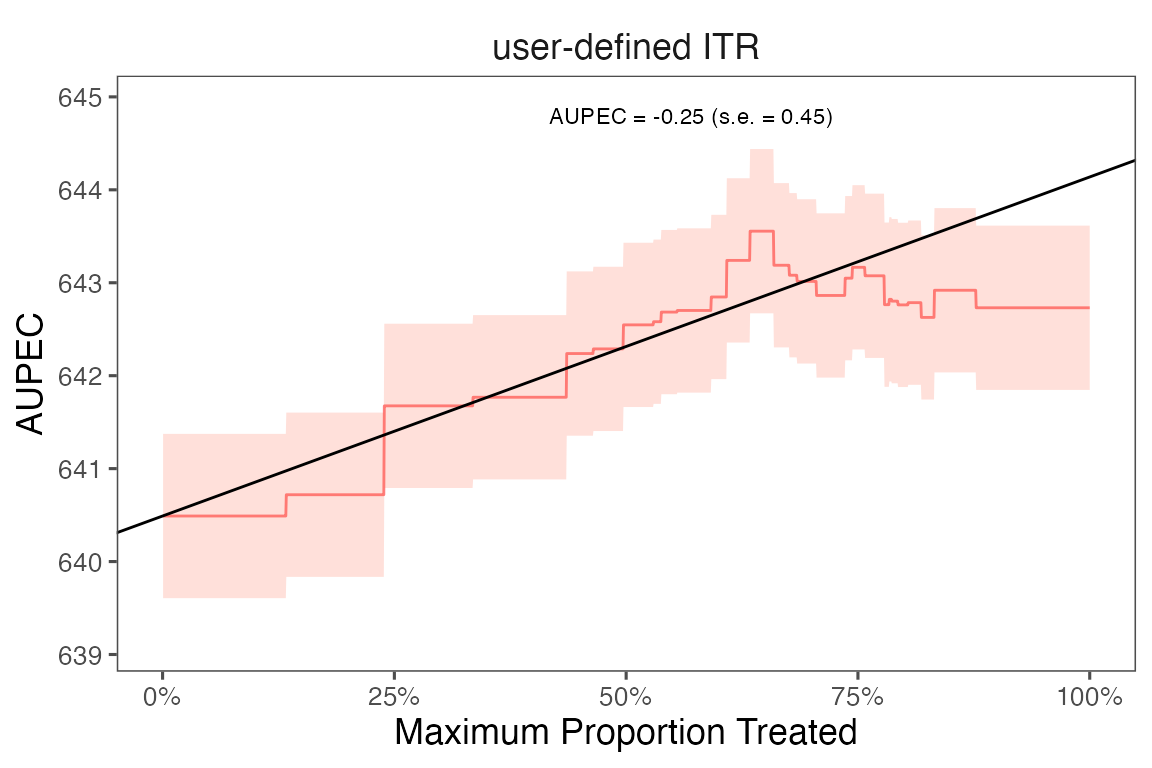
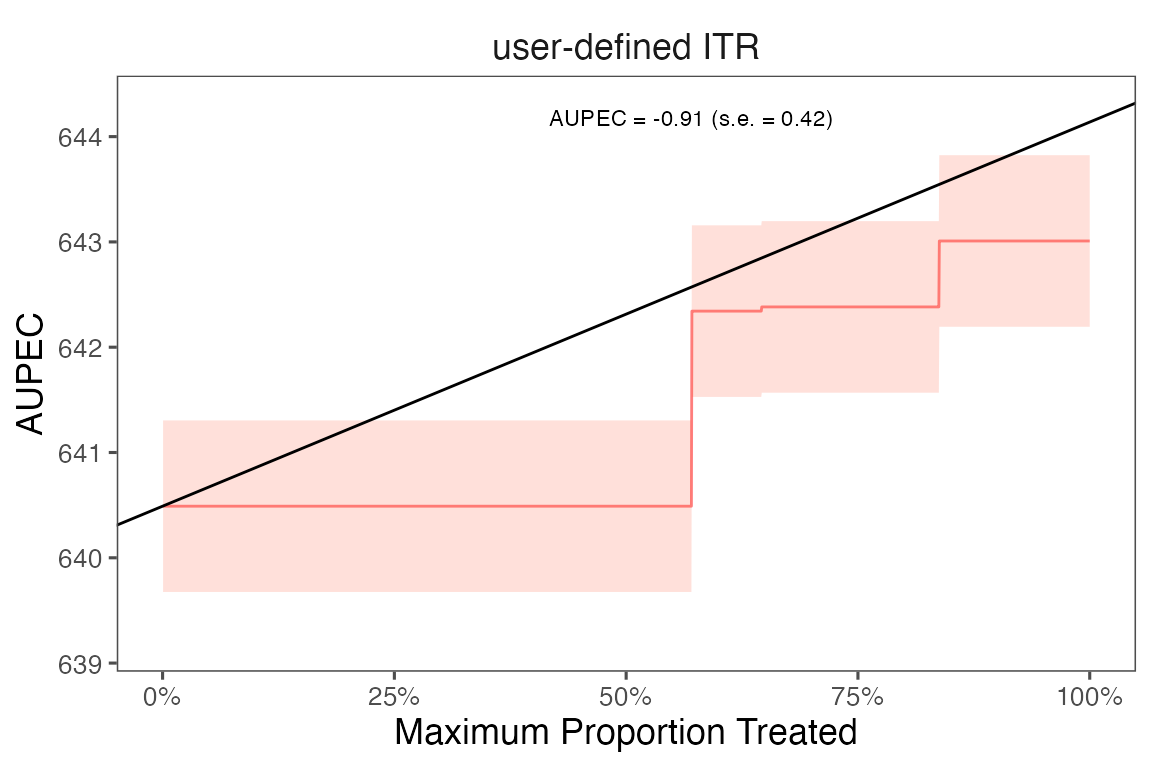
change scoring examples

diff --git a/docs/articles/user_itr_algs.html b/docs/articles/user_itr_algs.html
@@ -152,7 +152,15 @@ and AUPEC for the user defined ITR.</p>
 <span></span>
 <span><span class="co"># user's own ITR</span></span>
 <span><span class="va">score_function</span> <span class="op">&lt;-</span> <span class="kw">function</span><span class="op">(</span><span class="va">data</span><span class="op">)</span><span class="op">{</span></span>
-<span>  <span class="va">score</span> <span class="op">&lt;-</span> <span class="op">(</span><span class="va">data</span><span class="op">$</span><span class="va">GKWHITE</span><span class="op">)</span><span class="op">/</span><span class="fl">5</span></span>
+<span>  <span class="va">data</span> <span class="op"><a href="https://magrittr.tidyverse.org/reference/pipe.html" class="external-link">%&gt;%</a></span> </span>
+<span>    <span class="fu"><a href="https://dplyr.tidyverse.org/reference/mutate.html" class="external-link">mutate</a></span><span class="op">(</span>score <span class="op">=</span> <span class="fu"><a href="https://dplyr.tidyverse.org/reference/case_when.html" class="external-link">case_when</a></span><span class="op">(</span></span>
+<span>      <span class="va">SCHLURBN</span> <span class="op">==</span> <span class="fl">1</span> <span class="op">~</span> <span class="fl">0.1</span>, <span class="co"># inner-city</span></span>
+<span>      <span class="va">SCHLURBN</span> <span class="op">==</span> <span class="fl">2</span> <span class="op">~</span> <span class="fl">0.2</span>, <span class="co"># suburban</span></span>
+<span>      <span class="va">SCHLURBN</span> <span class="op">==</span> <span class="fl">3</span> <span class="op">~</span> <span class="fl">0.4</span>, <span class="co"># rural</span></span>
+<span>      <span class="va">SCHLURBN</span> <span class="op">==</span> <span class="fl">4</span> <span class="op">~</span> <span class="fl">0.3</span>, <span class="co"># urban</span></span>
+<span>    <span class="op">)</span><span class="op">)</span> <span class="op"><a href="https://magrittr.tidyverse.org/reference/pipe.html" class="external-link">%&gt;%</a></span></span>
+<span>    <span class="fu"><a href="https://dplyr.tidyverse.org/reference/pull.html" class="external-link">pull</a></span><span class="op">(</span><span class="va">score</span><span class="op">)</span> <span class="op">-&gt;</span> <span class="va">score</span></span>
+<span>    </span>
 <span>  <span class="kw"><a href="https://rdrr.io/r/base/function.html" class="external-link">return</a></span><span class="op">(</span><span class="va">score</span><span class="op">)</span></span>
 <span><span class="op">}</span></span>
 <span></span>
@@ -170,34 +178,34 @@ and AUPEC for the user defined ITR.</p>
 <span><span class="fu"><a href="https://rdrr.io/r/base/summary.html" class="external-link">summary</a></span><span class="op">(</span><span class="va">compare_itr</span><span class="op">)</span></span>
 <span><span class="co">#&gt; ── PAPE ────────────────────────────────────────────────────────────────────────</span></span>
 <span><span class="co">#&gt;   estimate std.deviation     algorithm statistic p.value</span></span>
-<span><span class="co">#&gt; 1      0.3           1.2 causal_forest      0.26     0.8</span></span>
-<span><span class="co">#&gt; 2      0.0           0.0      user_itr       NaN     NaN</span></span>
+<span><span class="co">#&gt; 1      1.4          0.86 causal_forest       1.6    0.11</span></span>
+<span><span class="co">#&gt; 2      0.0          0.00      user_itr       NaN     NaN</span></span>
 <span><span class="co">#&gt; </span></span>
 <span><span class="co">#&gt; ── PAPEp ───────────────────────────────────────────────────────────────────────</span></span>
 <span><span class="co">#&gt;   estimate std.deviation     algorithm statistic p.value</span></span>
-<span><span class="co">#&gt; 1    1.695          1.23 causal_forest     1.381    0.17</span></span>
-<span><span class="co">#&gt; 2    0.032          0.66      user_itr     0.049    0.96</span></span>
+<span><span class="co">#&gt; 1      2.2          1.13 causal_forest       1.9   0.052</span></span>
+<span><span class="co">#&gt; 2      1.1          0.67      user_itr       1.6   0.115</span></span>
 <span><span class="co">#&gt; </span></span>
 <span><span class="co">#&gt; ── PAPDp ───────────────────────────────────────────────────────────────────────</span></span>
 <span><span class="co">#&gt; Cannot compute PAPDp</span></span>
 <span><span class="co">#&gt; </span></span>
 <span><span class="co">#&gt; ── AUPEC ───────────────────────────────────────────────────────────────────────</span></span>
 <span><span class="co">#&gt;   estimate std.deviation     algorithm statistic p.value</span></span>
-<span><span class="co">#&gt; 1     0.98          0.95 causal_forest      1.04    0.30</span></span>
-<span><span class="co">#&gt; 2    -0.25          0.45          &lt;NA&gt;     -0.55    0.58</span></span>
+<span><span class="co">#&gt; 1     2.49          0.81 causal_forest       3.1  0.0021</span></span>
+<span><span class="co">#&gt; 2    -0.91          0.42          &lt;NA&gt;      -2.2  0.0282</span></span>
 <span><span class="co">#&gt; </span></span>
 <span><span class="co">#&gt; ── GATE ────────────────────────────────────────────────────────────────────────</span></span>
-<span><span class="co">#&gt;    estimate std.deviation     algorithm group statistic p.value  upper lower</span></span>
-<span><span class="co">#&gt; 1       9.4           109 causal_forest     1     0.087   0.931 -169.3   188</span></span>
-<span><span class="co">#&gt; 2     -77.9           107 causal_forest     2    -0.726   0.468 -254.5    99</span></span>
-<span><span class="co">#&gt; 3     165.6           109 causal_forest     3     1.522   0.128  -13.4   345</span></span>
-<span><span class="co">#&gt; 4      -2.4           109 causal_forest     4    -0.022   0.983 -181.6   177</span></span>
-<span><span class="co">#&gt; 5     -81.5           106 causal_forest     5    -0.767   0.443 -256.5    93</span></span>
-<span><span class="co">#&gt; 6      97.9            58      user_itr     1     1.681   0.093    2.1   194</span></span>
-<span><span class="co">#&gt; 7     -27.1            59      user_itr     2    -0.462   0.644 -123.5    69</span></span>
-<span><span class="co">#&gt; 8     -19.5            59      user_itr     3    -0.329   0.742 -117.2    78</span></span>
-<span><span class="co">#&gt; 9      96.6            60      user_itr     4     1.617   0.106   -1.6   195</span></span>
-<span><span class="co">#&gt; 10   -129.6            59      user_itr     5    -2.200   0.028 -226.6   -33</span></span></code></pre></div>
+<span><span class="co">#&gt;    estimate std.deviation     algorithm group statistic p.value   upper lower</span></span>
+<span><span class="co">#&gt; 1       -37           107 causal_forest     1     -0.35  0.7277 -214.15   139</span></span>
+<span><span class="co">#&gt; 2        13           108 causal_forest     2      0.12  0.9011 -163.52   190</span></span>
+<span><span class="co">#&gt; 3       131           109 causal_forest     3      1.21  0.2266  -47.33   310</span></span>
+<span><span class="co">#&gt; 4      -275           106 causal_forest     4     -2.59  0.0095 -449.08  -101</span></span>
+<span><span class="co">#&gt; 5       175           107 causal_forest     5      1.64  0.1012   -0.62   352</span></span>
+<span><span class="co">#&gt; 6       126            58      user_itr     1      2.16  0.0306   30.19   222</span></span>
+<span><span class="co">#&gt; 7        96            59      user_itr     2      1.62  0.1049   -1.39   194</span></span>
+<span><span class="co">#&gt; 8       -33            59      user_itr     3     -0.56  0.5786 -129.66    64</span></span>
+<span><span class="co">#&gt; 9      -139            59      user_itr     4     -2.36  0.0181 -236.47   -42</span></span>
+<span><span class="co">#&gt; 10      -32            59      user_itr     5     -0.54  0.5888 -129.37    65</span></span></code></pre></div>
 <p>We plot the estimated Area Under the Prescriptive Effect Curve
 (AUPEC) for the writing score across a range of budget constraints for
 user defined ITR and estimated ITRs. The plot shows that the estimated
@@ -263,7 +271,8 @@ model</td>
 </tbody>
 </table>
 <div class="sourceCode" id="cb3"><pre class="downlit sourceCode r">
-<code class="sourceCode R"><span><span class="co"># user's own model</span></span>
+<code class="sourceCode R"><span></span>
+<span><span class="co"># user's own model</span></span>
 <span><span class="va">user_model</span> <span class="op">&lt;-</span> <span class="kw">function</span><span class="op">(</span><span class="va">data</span><span class="op">)</span><span class="op">{</span></span>
 <span>  <span class="va">model</span> <span class="op">&lt;-</span> <span class="fu"><a href="https://rdrr.io/r/stats/lm.html" class="external-link">lm</a></span><span class="op">(</span><span class="va">Y</span> <span class="op">~</span> <span class="cn">T</span><span class="op">*</span><span class="op">(</span><span class="va">GKWHITE</span> <span class="op">+</span> <span class="va">GKBUSED</span> <span class="op">+</span> <span class="va">GKFRLNCH</span><span class="op">)</span>, data <span class="op">=</span> <span class="va">data</span><span class="op">)</span></span>
 <span>  <span class="kw"><a href="https://rdrr.io/r/base/function.html" class="external-link">return</a></span><span class="op">(</span><span class="va">model</span><span class="op">)</span></span>
@@ -288,35 +297,35 @@ model</td>
 <span><span class="fu"><a href="https://rdrr.io/r/base/summary.html" class="external-link">summary</a></span><span class="op">(</span><span class="va">compare_est</span><span class="op">)</span></span>
 <span><span class="co">#&gt; ── PAPE ────────────────────────────────────────────────────────────────────────</span></span>
 <span><span class="co">#&gt;   estimate std.deviation     algorithm statistic p.value</span></span>
-<span><span class="co">#&gt; 1  2.5e-01       1.4e+00 causal_forest   1.9e-01    0.85</span></span>
-<span><span class="co">#&gt; 2  4.4e-16       3.1e-09    user_model   1.5e-07    1.00</span></span>
+<span><span class="co">#&gt; 1    -0.74           1.2 causal_forest     -0.61    0.54</span></span>
+<span><span class="co">#&gt; 2     0.00           0.0    user_model       NaN     NaN</span></span>
 <span><span class="co">#&gt; </span></span>
 <span><span class="co">#&gt; ── PAPEp ───────────────────────────────────────────────────────────────────────</span></span>
 <span><span class="co">#&gt;   estimate std.deviation     algorithm statistic p.value</span></span>
-<span><span class="co">#&gt; 1      3.6           1.3 causal_forest      2.85  0.0044</span></span>
-<span><span class="co">#&gt; 2      1.2           1.2    user_model      0.98  0.3271</span></span>
+<span><span class="co">#&gt; 1     2.39           1.1 causal_forest     2.142   0.032</span></span>
+<span><span class="co">#&gt; 2     0.11           1.2    user_model     0.088   0.930</span></span>
 <span><span class="co">#&gt; </span></span>
 <span><span class="co">#&gt; ── PAPDp ───────────────────────────────────────────────────────────────────────</span></span>
 <span><span class="co">#&gt;   estimate std.deviation                  algorithm statistic p.value</span></span>
-<span><span class="co">#&gt; 1      2.5           1.9 causal_forest x user_model       1.3    0.18</span></span>
+<span><span class="co">#&gt; 1      2.3           1.7 causal_forest x user_model       1.4    0.17</span></span>
 <span><span class="co">#&gt; </span></span>
 <span><span class="co">#&gt; ── AUPEC ───────────────────────────────────────────────────────────────────────</span></span>
 <span><span class="co">#&gt;   estimate std.deviation     algorithm statistic p.value</span></span>
-<span><span class="co">#&gt; 1     1.62          1.08 causal_forest      1.49    0.14</span></span>
-<span><span class="co">#&gt; 2    -0.91          0.92    user_model     -0.99    0.32</span></span>
+<span><span class="co">#&gt; 1     1.13          0.94 causal_forest      1.21    0.23</span></span>
+<span><span class="co">#&gt; 2     0.32          0.84    user_model      0.38    0.70</span></span>
 <span><span class="co">#&gt; </span></span>
 <span><span class="co">#&gt; ── GATE ────────────────────────────────────────────────────────────────────────</span></span>
-<span><span class="co">#&gt;    estimate std.deviation     algorithm group statistic p.value  upper lower</span></span>
-<span><span class="co">#&gt; 1     171.5           108 causal_forest     1     1.585 1.1e-01   -6.4   350</span></span>
-<span><span class="co">#&gt; 2      -2.5           109 causal_forest     2    -0.023 9.8e-01 -181.7   177</span></span>
-<span><span class="co">#&gt; 3     -64.7           108 causal_forest     3    -0.601 5.5e-01 -241.7   112</span></span>
-<span><span class="co">#&gt; 4      -1.3           108 causal_forest     4    -0.012 9.9e-01 -178.2   176</span></span>
-<span><span class="co">#&gt; 5     -73.1           107 causal_forest     5    -0.684 4.9e-01 -249.0   103</span></span>
-<span><span class="co">#&gt; 6    -134.0           106    user_model     1    -1.262 2.1e-01 -308.7    41</span></span>
-<span><span class="co">#&gt; 7    -198.8           106    user_model     2    -1.871 6.1e-02 -373.5   -24</span></span>
-<span><span class="co">#&gt; 8    -130.6           107    user_model     3    -1.224 2.2e-01 -306.2    45</span></span>
-<span><span class="co">#&gt; 9     -29.4           109    user_model     4    -0.270 7.9e-01 -208.8   150</span></span>
-<span><span class="co">#&gt; 10    522.8           108    user_model     5     4.819 1.4e-06  344.4   701</span></span>
+<span><span class="co">#&gt;    estimate std.deviation     algorithm group statistic p.value upper lower</span></span>
+<span><span class="co">#&gt; 1      34.3           109 causal_forest     1     0.315 0.75254  -145   213</span></span>
+<span><span class="co">#&gt; 2     -13.8           108 causal_forest     2    -0.128 0.89831  -191   164</span></span>
+<span><span class="co">#&gt; 3     -85.0           108 causal_forest     3    -0.786 0.43198  -263    93</span></span>
+<span><span class="co">#&gt; 4       7.9           108 causal_forest     4     0.073 0.94192  -170   186</span></span>
+<span><span class="co">#&gt; 5      81.4           108 causal_forest     5     0.753 0.45145   -96   259</span></span>
+<span><span class="co">#&gt; 6    -209.2           104    user_model     1    -2.006 0.04483  -381   -38</span></span>
+<span><span class="co">#&gt; 7    -147.2           107    user_model     2    -1.376 0.16870  -323    29</span></span>
+<span><span class="co">#&gt; 8     -55.9           108    user_model     3    -0.516 0.60617  -234   123</span></span>
+<span><span class="co">#&gt; 9      25.0           109    user_model     4     0.230 0.81787  -153   203</span></span>
+<span><span class="co">#&gt; 10    412.1           111    user_model     5     3.706 0.00021   229   595</span></span>
 <span><span class="fu"><a href="https://rdrr.io/r/graphics/plot.default.html" class="external-link">plot</a></span><span class="op">(</span><span class="va">compare_est</span><span class="op">)</span></span></code></pre></div>
 <p><img src="../reference/figures/README-compare_itr_model_summary-1.png" width="700"></p>
 </div>

diff --git a/docs/articles/cv_single_alg.html b/docs/articles/cv_single_alg.html
@@ -87,69 +87,15 @@
     
     
 <p>When users choose to estimate and evaluate ITR under
-cross-validation, the package implements Algorithm 1 from <a href="https://arxiv.org/abs/1905.05389" class="external-link">Imai and Li (2023)</a></p>
+cross-validation, the package implements Algorithm 1 from <a href="https://arxiv.org/abs/1905.05389" class="external-link">Imai and Li (2023)</a> to
+estimate and evaluate ITR. Instead of specifying the
+<code>split_ratio</code> argument, we choose the number of folds
+(<code>n_folds</code>). We present an example of estimating ITR with 3
+folds cross-validation. In practice, we recommend using 10 folds to get
+a more stable model performance.</p>
 <p><strong>Algorithm 1 Estimating and Evaluating an Individualized
 Treatment Rule (ITR) using the Same Experimental Data via
 Cross-Validation</strong></p>
-<table class="table">
-<colgroup>
-<col width="22%">
-<col width="21%">
-<col width="56%">
-</colgroup>
-<thead><tr class="header">
-<th align="left">Input</th>
-<th align="left">R package input</th>
-<th align="left">Descriptions</th>
-</tr></thead>
-<tbody>
-<tr class="odd">
-<td align="left">Data <span class="math inline">\(\mathbf{Z}=\left\{\mathbf{X}_i, T_i,
-Y_i\right\}_{i=1}^n\)</span>
-</td>
-<td align="left"><code>treatment = treatment, form = user_formula, data = star_data</code></td>
-<td align="left">
-<code>treatment</code> is a character string specifying
-the treatment variable in the <code>data</code>; <code>form</code> is a
-formula specifying the outcome and covariates; and a dataframe
-<code>data</code>
-</td>
-</tr>
-<tr class="even">
-<td align="left">Machine learning algorithm <span class="math inline">\(F\)</span>
-</td>
-<td align="left"><code>algorithms = c("causal_forest")</code></td>
-<td align="left">a character vector specifying the ML algorithms to be
-used</td>
-</tr>
-<tr class="odd">
-<td align="left">Evaluation metric <span class="math inline">\(\tau_f\)</span>
-</td>
-<td align="left">PAPE, PAPD, AUPEC, GATE</td>
-<td align="left">By default</td>
-</tr>
-<tr class="even">
-<td align="left">Number of folds <span class="math inline">\(K\)</span>
-</td>
-<td align="left"><code>n_folds = 3</code></td>
-<td align="left">
-<code>n_folds</code> is a numeric value indicating the
-number of folds used for cross-validation</td>
-</tr>
-<tr class="odd">
-<td align="left">…</td>
-<td align="left"><code>budget = 0.2</code></td>
-<td align="left">
-<code>budget</code> is a numeric value specifying the
-maximum percentage of population that can be treated under the budget
-constraint</td>
-</tr>
-</tbody>
-</table>
-<p>The output will be an object that includes estimated evaluation
-metric <span class="math inline">\(\hat{\tau}_F\)</span> and the
-estimated variance of <span class="math inline">\(\hat{\tau}_F\)</span>
-for different metrics (PAPE, PAPD, AUPEC).</p>
 <table style="width:100%;" class="table">
 <colgroup>
 <col width="57%">
@@ -181,7 +127,7 @@ for different metrics (PAPE, PAPD, AUPEC).</p>
 <tr class="odd">
 <td align="left">3. while <span class="math inline">\(k \leq K\)</span>
 do</td>
-<td align="left">for loop in <code>fit_itr()</code> within
+<td align="left">for loop in <code><a href="../reference/fit_itr.html">fit_itr()</a></code> within
 <code><a href="../reference/estimate_itr.html">estimate_itr()</a></code>
 </td>
 <td align="left"></td>
@@ -242,11 +188,61 @@ k+1\)</span>
 </tr>
 </tbody>
 </table>
-<p>The package allows estimate ITR with k-folds cross-validation.
-Instead of specifying the <code>split_ratio</code> argument, we choose
-the number of folds (<code>n_folds</code>). The following code presents
-an example of estimating ITR with 3 folds cross-validation. In practice,
-we recommend using 10 folds to get a more stable model performance.</p>
+<table class="table">
+<colgroup>
+<col width="22%">
+<col width="21%">
+<col width="56%">
+</colgroup>
+<thead><tr class="header">
+<th align="left">Input</th>
+<th align="left">R package input</th>
+<th align="left">Descriptions</th>
+</tr></thead>
+<tbody>
+<tr class="odd">
+<td align="left">Data <span class="math inline">\(\mathbf{Z}=\left\{\mathbf{X}_i, T_i,
+Y_i\right\}_{i=1}^n\)</span>
+</td>
+<td align="left"><code>treatment = treatment, form = user_formula, data = star_data</code></td>
+<td align="left">
+<code>treatment</code> is a character string specifying
+the treatment variable in the <code>data</code>; <code>form</code> is a
+formula specifying the outcome and covariates; and a dataframe
+<code>data</code>
+</td>
+</tr>
+<tr class="even">
+<td align="left">Machine learning algorithm <span class="math inline">\(F\)</span>
+</td>
+<td align="left"><code>algorithms = c("causal_forest")</code></td>
+<td align="left">a character vector specifying the ML algorithms to be
+used</td>
+</tr>
+<tr class="odd">
+<td align="left">Evaluation metric <span class="math inline">\(\tau_f\)</span>
+</td>
+<td align="left">PAPE, PAPD, AUPEC, GATE</td>
+<td align="left">By default</td>
+</tr>
+<tr class="even">
+<td align="left">Number of folds <span class="math inline">\(K\)</span>
+</td>
+<td align="left"><code>n_folds = 3</code></td>
+<td align="left">
+<code>n_folds</code> is a numeric value indicating the
+number of folds used for cross-validation</td>
+</tr>
+<tr class="odd">
+<td align="left">…</td>
+<td align="left"><code>budget = 0.2</code></td>
+<td align="left">
+<code>budget</code> is a numeric value specifying the
+maximum percentage of population that can be treated under the budget
+constraint</td>
+</tr>
+</tbody>
+</table>
 <div class="sourceCode" id="cb1"><pre class="downlit sourceCode r">
 <code class="sourceCode R"><span><span class="kw"><a href="https://rdrr.io/r/base/library.html" class="external-link">library</a></span><span class="op">(</span><span class="va"><a href="https://github.com/MichaelLLi/evalITR" class="external-link">evalITR</a></span><span class="op">)</span></span>
 <span><span class="co"># estimate ITR </span></span>
@@ -258,9 +254,13 @@ we recommend using 10 folds to get a more stable model performance.</p>
 <span>               algorithms <span class="op">=</span> <span class="fu"><a href="https://rdrr.io/r/base/c.html" class="external-link">c</a></span><span class="op">(</span><span class="st">"causal_forest"</span><span class="op">)</span>,</span>
 <span>               budget <span class="op">=</span> <span class="fl">0.2</span>,</span>
 <span>               n_folds <span class="op">=</span> <span class="fl">3</span><span class="op">)</span></span>
-<span><span class="co">#&gt; Evaluate ITR with cross-validation ...</span></span>
-<span></span>
-<span><span class="co"># evaluate ITR </span></span>
+<span><span class="co">#&gt; Evaluate ITR with cross-validation ...</span></span></code></pre></div>
+<p>The output will be an object that includes estimated evaluation
+metric <span class="math inline">\(\hat{\tau}_F\)</span> and the
+estimated variance of <span class="math inline">\(\hat{\tau}_F\)</span>
+for different metrics (PAPE, PAPD, AUPEC).</p>
+<div class="sourceCode" id="cb2"><pre class="downlit sourceCode r">
+<code class="sourceCode R"><span><span class="co"># evaluate ITR </span></span>
 <span><span class="va">est_cv</span> <span class="op">&lt;-</span> <span class="fu"><a href="../reference/evaluate_itr.html">evaluate_itr</a></span><span class="op">(</span><span class="va">fit_cv</span><span class="op">)</span></span>
 <span><span class="co">#&gt; Cannot compute PAPDp</span></span>
 <span></span>
@@ -287,11 +287,7 @@ we recommend using 10 folds to get a more stable model performance.</p>
 <span><span class="co">#&gt; 2       40            59 causal_forest     2      0.68    0.50   157   -76</span></span>
 <span><span class="co">#&gt; 3       29            59 causal_forest     3      0.50    0.62   145   -86</span></span>
 <span><span class="co">#&gt; 4       13            59 causal_forest     4      0.22    0.82   129  -103</span></span>
-<span><span class="co">#&gt; 5       21           102 causal_forest     5      0.20    0.84   220  -179</span></span>
-<span></span>
-<span><span class="co"># plot the AUPEC </span></span>
-<span><span class="fu"><a href="https://rdrr.io/r/graphics/plot.default.html" class="external-link">plot</a></span><span class="op">(</span><span class="va">est_cv</span><span class="op">)</span></span></code></pre></div>
-<p><img src="../reference/figures/README-cv_estimate-1.png" width="60%"></p>
+<span><span class="co">#&gt; 5       21           102 causal_forest     5      0.20    0.84   220  -179</span></span></code></pre></div>
   </main>
 </div>
 

diff --git a/docs/articles/user_itr.html b/docs/articles/user_itr.html
@@ -134,7 +134,16 @@ and AUPEC for the user defined ITR.</p>
 <div class="sourceCode" id="cb1"><pre class="downlit sourceCode r">
 <code class="sourceCode R"><span><span class="co"># user's own ITR</span></span>
 <span><span class="va">score_function</span> <span class="op">&lt;-</span> <span class="kw">function</span><span class="op">(</span><span class="va">data</span><span class="op">)</span><span class="op">{</span></span>
-<span>  <span class="va">score</span> <span class="op">&lt;-</span> <span class="op">(</span><span class="va">data</span><span class="op">$</span><span class="va">GKWHITE</span><span class="op">)</span><span class="op">/</span><span class="fl">5</span></span>
+<span></span>
+<span>  <span class="va">data</span> <span class="op"><a href="https://magrittr.tidyverse.org/reference/pipe.html" class="external-link">%&gt;%</a></span> </span>
+<span>    <span class="fu"><a href="https://dplyr.tidyverse.org/reference/mutate.html" class="external-link">mutate</a></span><span class="op">(</span>score <span class="op">=</span> <span class="fu"><a href="https://dplyr.tidyverse.org/reference/case_when.html" class="external-link">case_when</a></span><span class="op">(</span></span>
+<span>      <span class="va">SCHLURBN</span> <span class="op">==</span> <span class="fl">1</span> <span class="op">~</span> <span class="fl">0.1</span>, <span class="co"># inner-city</span></span>
+<span>      <span class="va">SCHLURBN</span> <span class="op">==</span> <span class="fl">2</span> <span class="op">~</span> <span class="fl">0.2</span>, <span class="co"># suburban</span></span>
+<span>      <span class="va">SCHLURBN</span> <span class="op">==</span> <span class="fl">3</span> <span class="op">~</span> <span class="fl">0.4</span>, <span class="co"># rural</span></span>
+<span>      <span class="va">SCHLURBN</span> <span class="op">==</span> <span class="fl">4</span> <span class="op">~</span> <span class="fl">0.3</span>, <span class="co"># urban</span></span>
+<span>    <span class="op">)</span><span class="op">)</span> <span class="op"><a href="https://magrittr.tidyverse.org/reference/pipe.html" class="external-link">%&gt;%</a></span></span>
+<span>    <span class="fu"><a href="https://dplyr.tidyverse.org/reference/pull.html" class="external-link">pull</a></span><span class="op">(</span><span class="va">score</span><span class="op">)</span> <span class="op">-&gt;</span> <span class="va">score</span></span>
+<span>    </span>
 <span>  <span class="kw"><a href="https://rdrr.io/r/base/function.html" class="external-link">return</a></span><span class="op">(</span><span class="va">score</span><span class="op">)</span></span>
 <span><span class="op">}</span></span>
 <span></span>
@@ -154,22 +163,22 @@ and AUPEC for the user defined ITR.</p>
 <span><span class="co">#&gt; </span></span>
 <span><span class="co">#&gt; ── PAPEp ───────────────────────────────────────────────────────────────────────</span></span>
 <span><span class="co">#&gt;   estimate std.deviation algorithm statistic p.value</span></span>
-<span><span class="co">#&gt; 1    0.032          0.66  user_itr     0.049    0.96</span></span>
+<span><span class="co">#&gt; 1      1.1          0.67  user_itr       1.6    0.11</span></span>
 <span><span class="co">#&gt; </span></span>
 <span><span class="co">#&gt; ── PAPDp ───────────────────────────────────────────────────────────────────────</span></span>
 <span><span class="co">#&gt; Cannot compute PAPDp</span></span>
 <span><span class="co">#&gt; </span></span>
 <span><span class="co">#&gt; ── AUPEC ───────────────────────────────────────────────────────────────────────</span></span>
 <span><span class="co">#&gt;   estimate std.deviation statistic p.value</span></span>
-<span><span class="co">#&gt; 1    -0.25          0.45     -0.55    0.58</span></span>
+<span><span class="co">#&gt; 1    -0.91          0.42      -2.2   0.028</span></span>
 <span><span class="co">#&gt; </span></span>
 <span><span class="co">#&gt; ── GATE ────────────────────────────────────────────────────────────────────────</span></span>
 <span><span class="co">#&gt;   estimate std.deviation algorithm group statistic p.value  upper lower</span></span>
-<span><span class="co">#&gt; 1       98            58  user_itr     1      1.68   0.093    2.1   194</span></span>
-<span><span class="co">#&gt; 2      -27            59  user_itr     2     -0.46   0.644 -123.5    69</span></span>
-<span><span class="co">#&gt; 3      -20            59  user_itr     3     -0.33   0.742 -117.2    78</span></span>
-<span><span class="co">#&gt; 4       97            60  user_itr     4      1.62   0.106   -1.6   195</span></span>
-<span><span class="co">#&gt; 5     -130            59  user_itr     5     -2.20   0.028 -226.6   -33</span></span></code></pre></div>
+<span><span class="co">#&gt; 1      126            58  user_itr     1      2.16   0.031   30.2   222</span></span>
+<span><span class="co">#&gt; 2       96            59  user_itr     2      1.62   0.105   -1.4   194</span></span>
+<span><span class="co">#&gt; 3      -33            59  user_itr     3     -0.56   0.579 -129.7    64</span></span>
+<span><span class="co">#&gt; 4     -139            59  user_itr     4     -2.36   0.018 -236.5   -42</span></span>
+<span><span class="co">#&gt; 5      -32            59  user_itr     5     -0.54   0.589 -129.4    65</span></span></code></pre></div>
 <p>We can extract estimates from the <code>est</code> object. The
 following code shows how to extract the GATE estimates for the writing
 score with the causal forest algorithm.</p>
